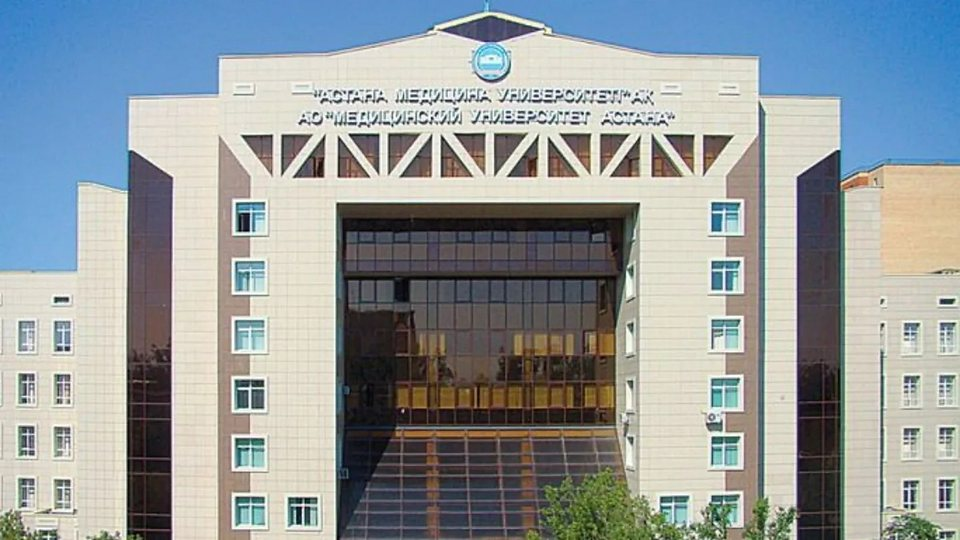
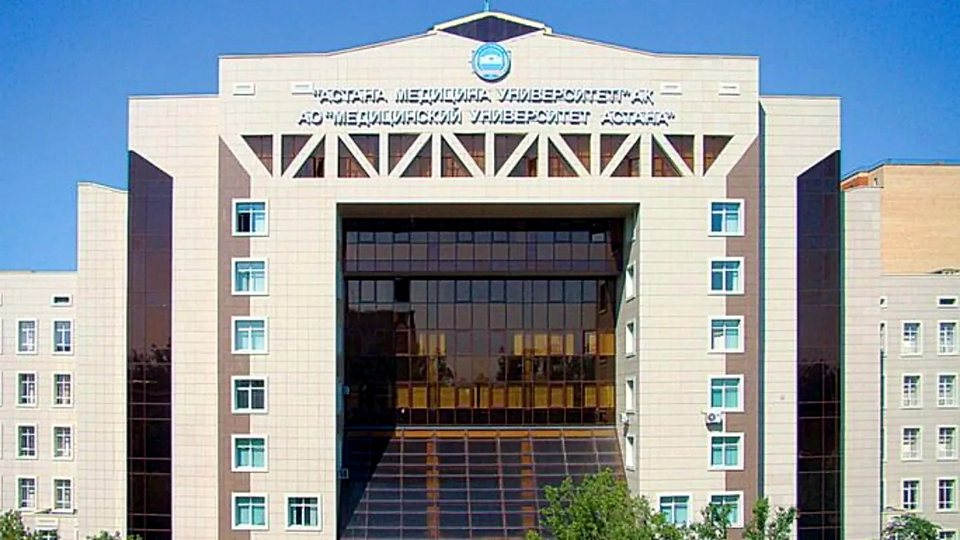
Release 4.5.2 WebP image quality fixes

Changed region(s): [[0.5, 0.7704, 0.5312, 0.8]]

diff --git a/frontend/javascript/pages/university/page-controller.js b/frontend/javascript/pages/university/page-controller.js
@@ -41,6 +41,16 @@ let detailLanguageChangedHandler = null;
 let detailFinanceResizeHandler = null;
 let detailFinanceResizeObserver = null;
 
+function cssString(value) {
+  return String(value || "").replace(/\\/g, "\\\\").replace(/"/g, '\\"');
+}
+
+function thumbnailBackgroundImage(universityId) {
+  const webp = cssString(uniThumbnailSrc(universityId, { forceFull: true }));
+  const jpg = cssString(uniThumbnailSrc(universityId, { forceFull: true, format: "jpg" }));
+  return `image-set(url("${webp}") type("image/webp"), url("${jpg}") type("image/jpeg"))`;
+}
+
 function cleanupDetailListeners() {
   if (detailProfileUpdatedHandler) {
     window.removeEventListener("profileUpdated", detailProfileUpdatedHandler);
@@ -134,7 +144,7 @@ function bindDetailActions({ id, minPrice, translatedName, university, universit
   setTxt("detailLogo", (translatedName || "U").substring(0, 2).toUpperCase());
 
   const coverEl = document.getElementById("detailCover");
-  if (coverEl) coverEl.style.backgroundImage = `url('${uniThumbnailSrc(universityId, { forceFull: true })}')`;
+  if (coverEl) coverEl.style.backgroundImage = thumbnailBackgroundImage(universityId);
 
   const logoEl = document.getElementById("detailLogo");
   if (logoEl) {

diff --git a/frontend/javascript/pages/_shared.js b/frontend/javascript/pages/_shared.js
@@ -1010,7 +1010,7 @@ export function fundingPreferenceToQueryValue(value) {
 export function uniThumbnailSrc(universityId, opts = {}) {
   const safeId = safePathSegment(universityId);
   const size = String(opts.size || "").trim().toLowerCase();
-  const format = String(opts.format || "jpg").trim().toLowerCase() === "webp" ? "webp" : "jpg";
+  const format = String(opts.format || "webp").trim().toLowerCase() === "jpg" ? "jpg" : "webp";
   const forceFull = !!opts.forceFull || size === "full" || size === "large";
   const folder = forceFull
     ? "thumbnails"

diff --git a/frontend/javascript/pages/ranking.js b/frontend/javascript/pages/ranking.js
@@ -142,7 +142,7 @@ function rankingStatusLabel(status) {
 function uniThumbnailSrc(universityId, opts = {}) {
   const safeId = safePathSegment(universityId);
   const size = String(opts.size || "").trim().toLowerCase();
-  const format = String(opts.format || "jpg").trim().toLowerCase() === "webp" ? "webp" : "jpg";
+  const format = String(opts.format || "webp").trim().toLowerCase() === "jpg" ? "jpg" : "webp";
   const forceFull = !!opts.forceFull || size === "full" || size === "large";
   const folder = forceFull
     ? "thumbnails"

diff --git a/frontend/env.js b/frontend/env.js
@@ -2,7 +2,7 @@
 window.__UNISEARCH_ENV__ = {
   "API_BASE_URL": "",
   "API_PORT": "8000",
-  "APP_VERSION": "4.5.1",
+  "APP_VERSION": "4.5.2",
   "APP_USE_PRETTY_URLS": "",
   "APP_DEBUG": ""
 };

diff --git a/scripts/audit-university-webp-visual.py b/scripts/audit-university-webp-visual.py
@@ -1,0 +1,77 @@
+from __future__ import annotations
+
+from pathlib import Path
+import sys
+
+try:
+    from PIL import Image, ImageChops, ImageStat
+except ImportError as exc:
+    raise SystemExit(
+        "Pillow is required for visual image auditing. Install dev dependencies with: pip install -r backend/requirements-dev.txt"
+    ) from exc
+
+
+REPO_ROOT = Path(__file__).resolve().parents[1]
+ASSETS_ROOT = REPO_ROOT / "backend" / "data" / "university_assets"
+FOLDERS = ("thumbnails", "thumbnails-medium", "thumbnails-small")
+MAX_MEAN_ABSOLUTE_ERROR = 18.0
+MAX_RMS_ERROR = 28.0
+
+
+def compare_pair(jpg_path: Path, webp_path: Path) -> tuple[float, float]:
+    with Image.open(jpg_path) as jpg_image, Image.open(webp_path) as webp_image:
+        jpg = jpg_image.convert("RGB")
+        webp = webp_image.convert("RGB")
+        if jpg.size != webp.size:
+            raise ValueError(f"size mismatch: JPG {jpg.size[0]}x{jpg.size[1]}, WebP {webp.size[0]}x{webp.size[1]}")
+
+        diff = ImageChops.difference(jpg, webp)
+        stat = ImageStat.Stat(diff)
+        mean_absolute_error = sum(stat.mean) / 3
+        rms_error = (sum(value * value for value in stat.rms) / 3) ** 0.5
+        return mean_absolute_error, rms_error
+
+
+def main() -> int:
+    errors: list[str] = []
+    worst: list[tuple[float, float, str]] = []
+    checked = 0
+
+    for folder in FOLDERS:
+        folder_path = ASSETS_ROOT / folder
+        for jpg_path in sorted(folder_path.glob("*.jpg")):
+            webp_path = jpg_path.with_suffix(".webp")
+            label = f"{folder}/{jpg_path.stem}"
+
+            if not webp_path.exists():
+                errors.append(f"{label}: missing WebP pair")
+                continue
+
+            try:
+                mae, rms = compare_pair(jpg_path, webp_path)
+            except Exception as exc:
+                errors.append(f"{label}: cannot decode/compare WebP pair: {exc}")
+                continue
+
+            checked += 1
+            worst.append((mae, rms, label))
+            if mae > MAX_MEAN_ABSOLUTE_ERROR or rms > MAX_RMS_ERROR:
+                errors.append(
+                    f"{label}: WebP differs too much from JPG fallback "
+                    f"(MAE {mae:.2f}, RMS {rms:.2f}; limits {MAX_MEAN_ABSOLUTE_ERROR:.2f}/{MAX_RMS_ERROR:.2f})"
+                )
+
+    if errors:
+        print("\n".join(f"error: {item}" for item in errors), file=sys.stderr)
+        return 1
+
+    worst.sort(reverse=True)
+    preview = ", ".join(f"{label} MAE {mae:.2f}/RMS {rms:.2f}" for mae, rms, label in worst[:3])
+    print(f"WebP visual audit passed for {checked} JPG/WebP pairs.")
+    if preview:
+        print(f"Worst pairs: {preview}")
+    return 0
+
+
+if __name__ == "__main__":
+    raise SystemExit(main())

diff --git a/CHANGELOG.md b/CHANGELOG.md
@@ -2,6 +2,12 @@
 
 All notable project changes should be recorded here.
 
+## 4.5.2 (2026-05-26)
+- Switched university thumbnails to WebP-first delivery while preserving explicit JPG fallback paths.
+- Updated university detail covers to use WebP/JPG `image-set` backgrounds for full-size hero images.
+- Added WebP visual similarity auditing to catch distorted or corrupted generated variants.
+- Refreshed full, medium, and small JPG/WebP cover variants for selected Kazakhstan universities with weaker full-screen image quality.
+
 ## 4.5.1 (2026-05-25)
 - Added test data for Narxoz University and expanded university data testing scripts.
 - Updated `universities.json` and `universities_translations.json` to include detailed descriptions for newly added universities and the new `fields_of_study` translation.

diff --git a/README.md b/README.md
@@ -124,6 +124,7 @@ Before committing media changes, run:
 ```bash
 npm run audit:images
 ```
+The audit checks dimensions, byte-size contracts, WebP/JPG fallback pairs, and decoded WebP visual similarity against the JPG fallback.
 
 ## API overview
 General:
@@ -470,6 +471,7 @@ Check the following:
 Canonical release history lives in [CHANGELOG.md](CHANGELOG.md).
 
 Recent releases:
+- `4.5.2` on `2026-05-26`
 - `4.5.1` on `2026-05-25`
 - `4.5.0` on `2026-05-24`
 - `4.4.0` on `2026-05-24`
